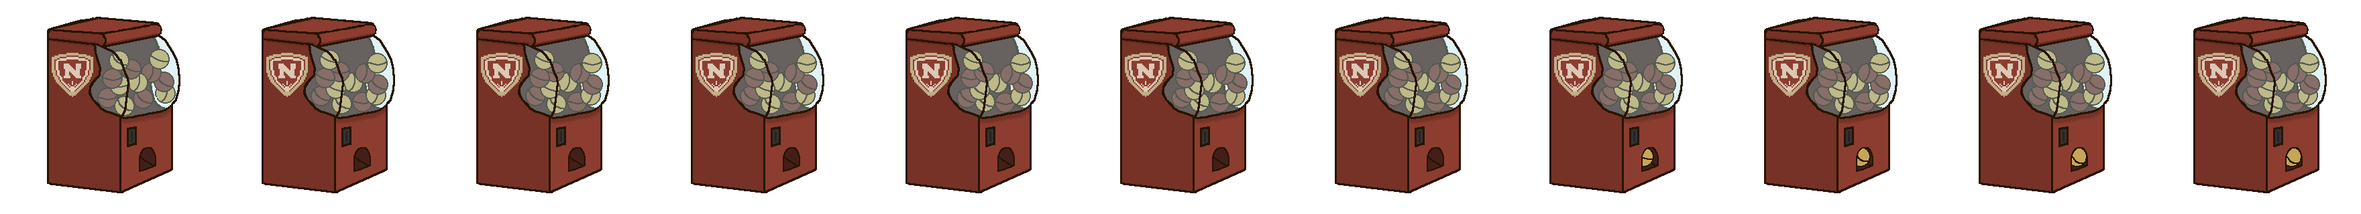
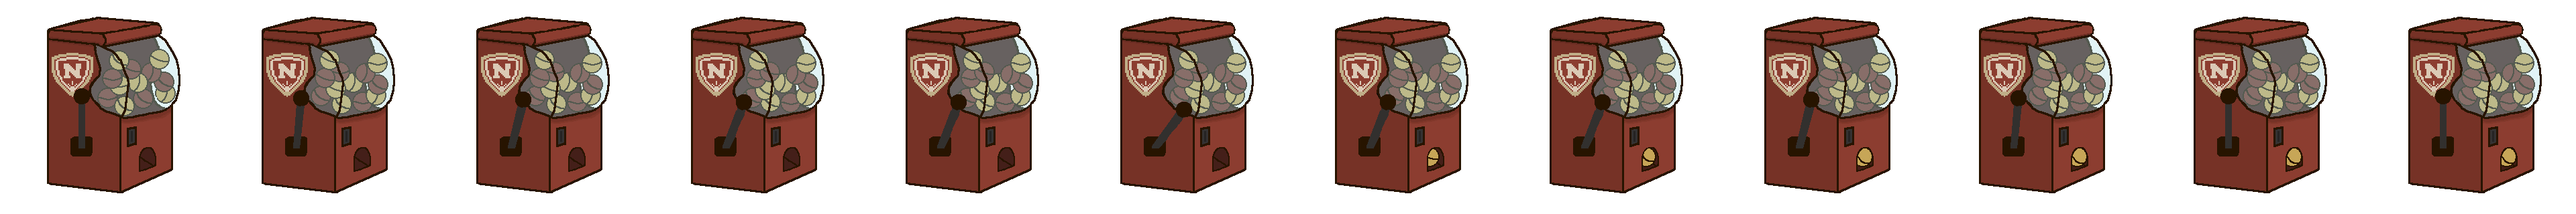
Add files via upload

diff --git a/main.py b/main.py
@@ -84,12 +84,7 @@ circle_y = 0
 circle_angle = 0
 circle_start = True
 gacha = ""
-min_angle = -16
-angle = min_angle
-max_angle = -90
 clock = pygame.time.Clock()
-rotating_forward = True
-dispensing = False
 username_box = TypingBox((center_x, 150), 800, 100, 1)
 password_box = TypingBox((center_x, 350), 800, 100, 2)
 highlight_x = 95
@@ -98,10 +93,10 @@ highlight_num = 0
 
 #sprite animation for card dispenser
 back = (0,0,0)
-def get_image(sheet, frame, width, height, scale, color):
+def get_image(sheet, dispenser_frame, width, height, scale, color):
     image = pygame.Surface((width, height)).convert_alpha()
-    image.blit(sheet, (0,0), ((frame * width), 0, width, height))
-    image.blit(sheet, (0,0), ((frame * width), 0, width, height))
+    image.blit(sheet, (0,0), ((dispenser_frame * width), 0, width, height))
+    image.blit(sheet, (0,0), ((dispenser_frame * width), 0, width, height))
     image = pygame.transform.scale(image, (width * scale, height * scale))
     image.set_colorkey(color)
 
@@ -109,11 +104,11 @@ def get_image(sheet, frame, width, height, scale, color):
 
 #create animation list
 animation_list = []
-animation_steps = [1, 8]
+animation_steps = [1, 11]
 action = 0
 last_update = pygame.time.get_ticks()
-anim_cooldown = 250
-frame = 0
+anim_cooldown = 200
+dispenser_frame = 0
 step = 0
 
 for animation in animation_steps:
@@ -142,7 +137,7 @@ small_font = pygame.font.Font("teachemon.ttf", 15)
 
 pivot_point = (450, 400) # The fixed pivot point around which to rotate
 angle = 0  # Initial rotation angle
-rotation_speed = 2  # Degrees per frame
+rotation_speed = 2  # Degrees per dispenser_frame
 
 # LOGIN SCREEN VARIABLES
 text_username = base_font.render("USERNAME", True, (0, 0, 0))
@@ -263,8 +258,7 @@ while running[0]:
                     left_page = 1
                 elif pointer_pos == 3:
                     page = "Claim"
-                    dispensing = False
-                    angle = min_angle
+                    dispenser_frame = 0
                 elif pointer_pos == 4:
                     page = "Settings"
             elif page == "Battle_Menu":
@@ -418,19 +412,11 @@ while running[0]:
             if gacha not in cards_owned:
                 cards_owned.insert(np.searchsorted(cards_owned, gacha), gacha)
                 connection.send(f"a{gacha}".encode())
-        
-            rotated_lever = pygame.transform.rotate(lever, angle)
-            lever_rect = rotated_lever.get_rect(center=(480, 250))
-            angle = min_angle
-            
-            # Start rotation forward when the mouse is clicked
-            dispensing = True
-            rotating_forward = True
 
             if action == 1:
                 action -= 1
             action += 1
-            frame = 0
+            dispenser_frame = 0
 
     ### HANDLE SERVER MESSAGES
     
@@ -624,37 +610,17 @@ while running[0]:
         pointer_pos = 1
         pointer_x = 740
         pointer_y = 550
-        draw_claim(screen, button_exit, font, coins, gacha, animation_list, frame, action)
-        if dispensing:
-            #update animation
-            current_time = pygame.time.get_ticks()
-            if current_time - last_update >= anim_cooldown:
-                frame += 1
-                last_update = current_time
-                if frame >= len(animation_list[action]):
-                    frame = 0
+        draw_claim(screen, button_exit, font, coins, gacha, animation_list, dispenser_frame, action)
 
-            # Update rotation angle based on direction
-            if rotating_forward:
-                angle -= rotation_speed
-                if angle <= max_angle:
-                    angle = max_angle
-                    rotating_forward = False
-            else:
-                angle += rotation_speed
-                if angle >= min_angle:
-                    angle = min_angle
-                    dispensing = False
-        else:
-            frame = 0
-        
-        rotated_lever = pygame.transform.rotate(lever, angle)
-        lever_rect = rotated_lever.get_rect(center=pivot_point)
-        draw_rotating_lever(screen, rotated_lever, lever_rect)    
-        # Draw everything on screen
-        #draw_claim(rotated_lever, lever_rect, gacha)  # Update display with gacha result
-        #pygame.display.flip()  # Refresh the screen
-        #clock.tick(30)
+        current_time = pygame.time.get_ticks()
+        if current_time - last_update >= anim_cooldown:
+            dispenser_frame += 1
+            last_update = current_time
+            if dispenser_frame == 11:
+                action = (action + 1) % len(animation_list)
+                dispenser_frame = 0          
+            elif dispenser_frame >= len(animation_list[action]):
+                dispenser_frame = 0
 
        
     elif page == "Settings":

diff --git a/utils/draw.py b/utils/draw.py
@@ -111,12 +111,12 @@ def draw_binder(screen, left, right, binder, font, card_images, cards_owned, car
 def draw_claim(screen, button_exit, font, coins, gacha, animation_list, frame, action):
     screen.fill("grey")
     screen.blit(button_exit, (785,555))
-    screen.blit(animation_list[action][frame], (260,50))
+    screen.blit(animation_list[action][frame], (250,50))
     screen.blit(font.render(str(coins), True, (0, 0, 0)), (25, 5))
     screen.blit(font.render(str(gacha), True, (255, 255, 255)), (480, 250))
 
-def draw_rotating_lever(screen, new_lever, rect):
-    screen.blit(new_lever, rect)
+# def draw_rotating_lever(screen, new_lever, rect):
+#     screen.blit(new_lever, rect)
 
 def draw_settings(screen, button_credits, button_exit):
     screen.fill("grey")
